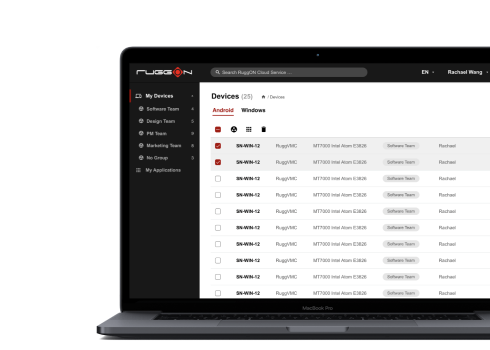
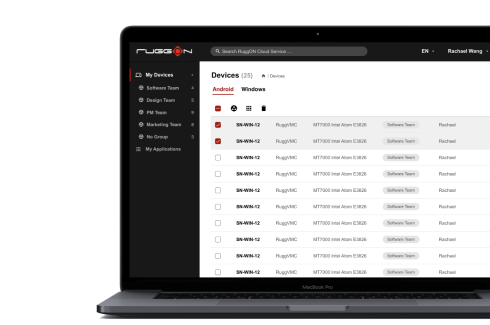
works sm img

diff --git a/index.html b/index.html
@@ -214,9 +214,7 @@
 
 								</div>
 
-								<img
-									src="https://storage.googleapis.com/spec-host-backup/mio-design%2Fassets%2F141eT1dINCS1bn5TpURZ5q5hpcfc3Salq%2Fio2019-playlist-2x1-small.png"
-									alt="">
+								<img src="img-new/sm_ruggon.png" alt="">
 
 
 
@@ -241,9 +239,7 @@
 
 
 								</div>
-								<img
-									src="https://storage.googleapis.com/spec-host-backup/mio-design%2Fassets%2F141eT1dINCS1bn5TpURZ5q5hpcfc3Salq%2Fio2019-playlist-2x1-small.png"
-									alt="">
+								<img src="img-new/sm_ruggon.png" alt="">
 
 
 							</div>
@@ -265,9 +261,7 @@
 											irregular marketing events.</p> -->
 								</div>
 
-								<img
-									src="https://storage.googleapis.com/spec-host-backup/mio-design%2Fassets%2F1GOAsTA8HIHva_fOFnS45OULMzPUmfRoe%2Fgd-darktheme-2x1-small.png"
-									alt="">
+								<img src="img-new/sm_amigo.png" alt="">
 							</div>
 						</a>
 					</div>
@@ -287,9 +281,7 @@
 
 								</div>
 
-								<img
-									src="https://storage.googleapis.com/spec-host-backup/mio-design%2Fassets%2F1GOAsTA8HIHva_fOFnS45OULMzPUmfRoe%2Fgd-darktheme-2x1-small.png"
-									alt="">
+								<img src="img-new/sm_3sdrive.png" alt="">
 							</div>
 						</a>
 					</div>
@@ -310,9 +302,7 @@
 
 								</div>
 
-								<img
-									src="https://storage.googleapis.com/spec-host-backup/mio-design%2Fassets%2F1GOAsTA8HIHva_fOFnS45OULMzPUmfRoe%2Fgd-darktheme-2x1-small.png"
-									alt="">
+								<img src="img-new/sm_forest.png" alt="">
 							</div>
 						</a>
 					</div>
@@ -332,9 +322,7 @@
 											irregular marketing events.</p> -->
 								</div>
 
-								<img
-									src="https://storage.googleapis.com/spec-host-backup/mio-design%2Fassets%2F1GOAsTA8HIHva_fOFnS45OULMzPUmfRoe%2Fgd-darktheme-2x1-small.png"
-									alt="">
+								<img src="img-new/sm_ruggon.png" alt="">
 							</div>
 						</a>
 					</div>

diff --git a/css/style.css b/css/style.css
@@ -1168,11 +1168,14 @@ a:hover p{
     overflow: hidden !important;
   }
 
+
   
 
   .port .intro .desc {
     text-align: left;
-    margin-bottom: 8px;
+    /* margin-bottom: 8px; */
+    margin-left: 25px;
+    margin-top: 12px;
   }
 
   .port .intro .desc h5 {
@@ -1204,16 +1207,19 @@ a:hover p{
 
 
   .port img {
-    width: 100%;
+    /* width: 100%; */
     display: block;
-    margin: 30px auto 5px;
+    margin: 5px auto 15px;
     /* background: rgb(239,239,239); */
     transform:scale(1,1);
     transition: all .3s ease-out;
-    -webkit-filter:saturate(1);
-    webkit-filter:grayscale(0);
+    /* -webkit-filter:saturate(1); */
+    /* webkit-filter:grayscale(0); */
     border-radius:5px;
-    height: 140px;
+    width: auto;
+	height: auto;
+	max-width: 100%;
+	max-height: 100%;
     
   }
 
@@ -1233,7 +1239,7 @@ a:hover p{
   .portfolio-item .intro {
     text-align: center;
     margin-bottom: 5px;
-    padding: 8px 12px 12px !important;
+    padding: 8px 0px 0px !important;
     /* border:1px solid transparent; */
     border-radius:5px;
     /* background: #e6f2fd; */
